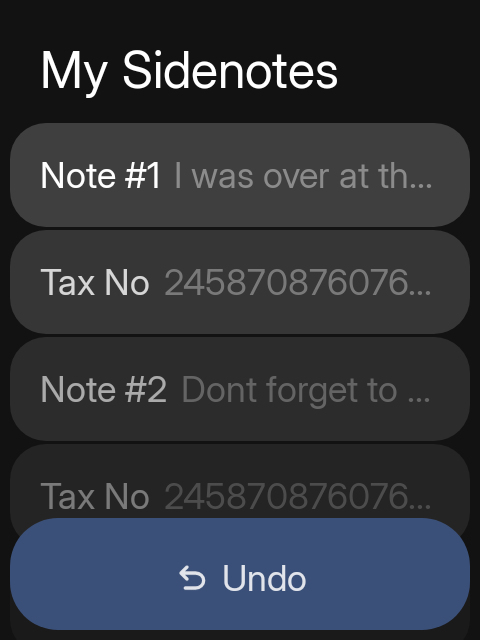
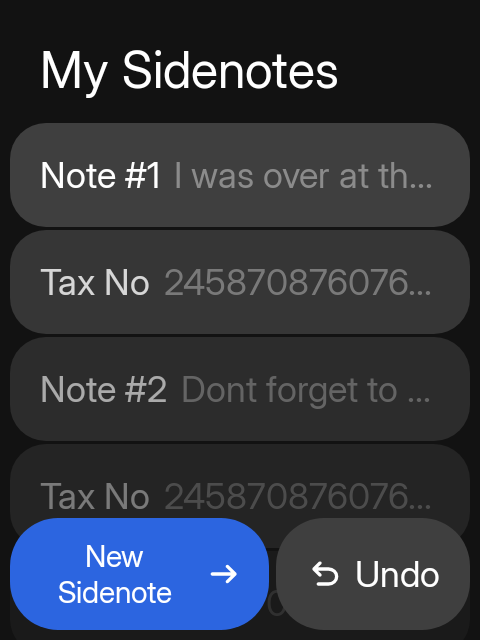
Keep Undo to the right of the action, never in place of it
Undo is an offer, not a mode. Two slots: the left one keeps what the screen is
for, the right one is empty until something can be undone and then shows Undo.
Root lists read New | Undo, browse lists Back | Undo, and where a screen has
both a way back and a primary the primary holds the left slot while the exit
button steps aside for the five seconds (system back still leaves, and the exit
returns with the primary).

Fixes the previous mistake where a single-slot bar became Undo alone, and the
one where an unchanged bar lost its first action: undoBar now only participates
while there is something to undo.

Changed region(s): [[0.0, 0.8125, 1.0, 1.0]]

diff --git a/app/src/main/java/hrln/interactive/sidekit/apps/webbrowser/WebBrowserScreen.kt b/app/src/main/java/hrln/interactive/sidekit/apps/webbrowser/WebBrowserScreen.kt
@@ -146,8 +146,8 @@ private fun StartTile(page: WebPage, onLink: () -> Unit, modifier: Modifier = Mo
 private fun withNotice(notice: String?, onDismiss: () -> Unit, actions: List<SideAction>): List<SideAction> =
     if (notice == null) actions else listOf(SideAction("notice", notice, tone = ActionTone.Muted, dense = true, motion = ActionMotion.Up, onClick = onDismiss))
 
-private fun withUndo(undo: BrowserUndo?, onUndo: () -> Unit, exit: SideAction?, primary: SideAction?): List<SideAction> =
-    undoBar(exit = exit, primary = primary, undo = undo?.let { SideAction.undo(contentDescription = "Undo", onClick = onUndo) })
+private fun withUndo(undo: BrowserUndo?, onUndo: () -> Unit, continueWith: SideAction): List<SideAction> =
+    undoBar(continueWith = continueWith, undo = undo?.let { SideAction.undo(contentDescription = "Undo", onClick = onUndo) })
 
 /**
  * The browser. One route; the page, tab list, bookmarks and history are modes of it so the live
@@ -415,12 +415,12 @@ private fun TabsScreen(
     onDismissNotice: () -> Unit,
 ) {
     BackHandler(onBack = onBack)
-    val main = withUndo(
-        undo,
-        onUndo,
-        exit = SideAction.back("back", "Page", onBack),
-        primary = SideAction("forward", "New tab", SidekitIcon.Add, iconAtEnd = true, motion = ActionMotion.Forward, onClick = onNew),
-    )
+    val newTab = SideAction("forward", "New tab", SidekitIcon.Add, iconAtEnd = true, motion = ActionMotion.Forward, onClick = onNew)
+    val main = if (undo != null) {
+        withUndo(undo, onUndo, continueWith = newTab)
+    } else {
+        listOf(SideAction.back("back", "Page", onBack), newTab)
+    }
     SidekitScaffold(title = if (data.tabs.size == 1) "1 tab" else "${data.tabs.size} tabs", actions = withNotice(notice, onDismissNotice, main)) { padding ->
         val listState = rememberLazyListState()
         val swipe = rememberSwipeRevealGroup()
@@ -470,7 +470,7 @@ private fun BookmarksScreen(
     onUndo: () -> Unit,
 ) {
     BackHandler(onBack = onBack)
-    SidekitScaffold(title = "Bookmarks", actions = withUndo(undo, onUndo, exit = SideAction.back("back", "Tabs", onBack), primary = null)) { padding ->
+    SidekitScaffold(title = "Bookmarks", actions = withUndo(undo, onUndo, continueWith = SideAction.back("back", "Tabs", onBack))) { padding ->
         val listState = rememberLazyListState()
         val swipe = rememberSwipeRevealGroup()
         SidekitList(padding, state = listState) {

diff --git a/app/src/test/java/hrln/interactive/sidekit/apps/UndoConventionTest.kt b/app/src/test/java/hrln/interactive/sidekit/apps/UndoConventionTest.kt
@@ -18,39 +18,28 @@ class UndoConventionTest {
     private fun action(key: String, label: String) = SideAction(key, label) {}
 
     @Test
-    fun `undo takes the right slot and leaves the exit alone`() {
-        val bar = undoBar(exit = action("back", "Back"), primary = action("new", "New"), undo = SideAction.undo {})
-        assertEquals(listOf("back", "undo"), bar.map { it.key })
+    fun `undo joins the primary on the right and adds nothing else`() {
+        val bar = undoBar(continueWith = action("new", "New"), undo = SideAction.undo {})
+        assertEquals(listOf("new", "undo"), bar.map { it.key })
     }
 
     @Test
-    fun `the primary returns when there is nothing to undo`() {
-        val bar = undoBar(exit = action("back", "Back"), primary = action("new", "New"), undo = null)
-        assertEquals(listOf("back", "new"), bar.map { it.key })
+    fun `the primary keeps the left slot and the exit steps aside`() {
+        val bar = undoBar(continueWith = action("compose", "Compose"), undo = SideAction.undo {})
+        assertEquals(listOf("compose", "undo"), bar.map { it.key })
+        assertEquals(2, bar.size)
     }
 
     @Test
-    fun `a root list with no exit shows undo alone`() {
-        val bar = undoBar(primary = action("new", "New"), undo = SideAction.undo {})
-        assertEquals(listOf("undo"), bar.map { it.key })
+    fun `the bar is unchanged when there is nothing to undo`() {
+        val bar = undoBar(continueWith = action("back", "Back"), undo = null)
+        assertEquals(listOf("back"), bar.map { it.key })
     }
 
     @Test
-    fun `a draft keeps Send and adds undo third`() {
-        val bar = undoBar(
-            exit = action("back", "Back"),
-            primary = action("send", "Send"),
-            undo = SideAction.undo {},
-            keepPrimary = true,
-        )
-        assertEquals(listOf("back", "send", "undo"), bar.map { it.key })
-    }
-
-    @Test
-    fun `undo is muted and rises in place`() {
-        val undo = SideAction.undo(contentDescription = "Undo delete Barclays") {}
-        assertEquals(ActionTone.Muted, undo.tone)
-        assertEquals("Undo delete Barclays", undo.contentDescription)
+    fun `a draft never grows an undo button`() {
+        val bar = undoBar(continueWith = action("send", "Send"), undo = null)
+        assertEquals(listOf("send"), bar.map { it.key })
     }
 
     /**

diff --git a/app/src/main/java/hrln/interactive/sidekit/apps/sideticks/SideticksScreen.kt b/app/src/main/java/hrln/interactive/sidekit/apps/sideticks/SideticksScreen.kt
@@ -61,15 +61,17 @@ fun SideticksScreen(
         focusParking = screenFocus,
         title = "My Sideticks",
         actions = buildList {
-            addAll(
-                undoBar(
-                    exit = if (state.draft != null) SideAction.cancel("cancel", onClick = onCancel) else null,
-                    primary =
-                    if (state.draft != null) SideAction("main", "Confirm", SidekitIcon.Check, iconAtEnd = true, tone = ActionTone.Secondary, motion = ActionMotion.Up, onClick = onConfirmDraft)
-                    else SideAction("main", "New Sidetick", SidekitIcon.Add, iconAtEnd = true, motion = ActionMotion.Up, onClick = onNewTick),
-                    undo = if (state.draft == null && state.recentlyDeleted.isNotEmpty()) SideAction.undo(contentDescription = "Undo delete tick", onClick = onUndo) else null,
-                ),
-            )
+            if (state.draft != null) {
+                add(SideAction.cancel("cancel", onClick = onCancel))
+                add(SideAction("main", "Confirm", SidekitIcon.Check, iconAtEnd = true, tone = ActionTone.Secondary, motion = ActionMotion.Up, onClick = onConfirmDraft))
+            } else {
+                addAll(
+                    undoBar(
+                        continueWith = SideAction("main", "New Sidetick", SidekitIcon.Add, iconAtEnd = true, motion = ActionMotion.Up, onClick = onNewTick),
+                        undo = if (state.recentlyDeleted.isNotEmpty()) SideAction.undo(contentDescription = "Undo delete tick", onClick = onUndo) else null,
+                    ),
+                )
+            }
             if (needsNotifications && state.dueText != null) add(SideAction("allow", "Allow", onClick = onNotifications))
         },
         options = if (state.draft != null) listOf(SideAction("due", if (state.dueText == null) "Due time" else "No due time") { onDue(if (state.dueText == null) "" else null) })

diff --git a/sidekit/src/main/java/hrln/interactive/sidekit/design/action/UndoBar.kt b/sidekit/src/main/java/hrln/interactive/sidekit/design/action/UndoBar.kt
@@ -3,22 +3,14 @@ package hrln.interactive.sidekit.design.action
 /**
  * The bar while a delete can still be taken back.
  *
- * The bar keeps its two slots and never grows or hides the exit: the left slot is always the way
- * out, and for a few seconds the right slot promises [undo] instead of [primary] — the promise on
- * the table right now is "put it back". The primary action returns when the undo window closes.
+ * Undo is an offer, not a mode, so it never removes the thing the screen is for: the bar keeps two
+ * slots, the left one holds the continuation ([continueWith]) and the right one — which is empty
+ * until something can be undone — shows [undo] for as long as the window lasts. The undo button is
+ * only ever added, never substituted, and always lands on the same side.
  *
- * Pass [keepPrimary] where the primary is holding typed work (a draft's Send), so the undo becomes
- * a third button instead of stranding the text. Pass [trailing] for fixed companions (a locate or
- * permission action) that stay put either way.
+ * When a screen has both a way back and a primary action the primary wins the left slot, so the
+ * exit button steps aside for the window; the system back still leaves, and the exit returns with
+ * the primary.
  */
-fun undoBar(
-    exit: SideAction? = null,
-    primary: SideAction? = null,
-    undo: SideAction? = null,
-    keepPrimary: Boolean = false,
-    trailing: List<SideAction> = emptyList(),
-): List<SideAction> = when {
-    undo == null -> listOfNotNull(exit, primary) + trailing
-    keepPrimary -> listOfNotNull(exit, primary, undo) + trailing
-    else -> listOfNotNull(exit, undo) + trailing
-}
+fun undoBar(continueWith: SideAction, undo: SideAction? = null): List<SideAction> =
+    if (undo == null) listOf(continueWith) else listOf(continueWith, undo)

diff --git a/app/src/main/java/hrln/interactive/sidekit/apps/sideweather/SideweatherGraph.kt b/app/src/main/java/hrln/interactive/sidekit/apps/sideweather/SideweatherGraph.kt
@@ -78,12 +78,9 @@ fun NavGraphBuilder.sideweatherGraph(nav: NavHostController) {
                         val locate = locationAction(vm::selectCurrentLocation) { message = it }
                         val list = rememberLazyListState()
                         val group = rememberSwipeRevealGroup()
-                        SidekitScaffold("Locations", actions = undoBar(
-                            exit = SideAction.back("back", "Back", back),
-                            primary = SideAction("add", "Add") { nav.navigate("$root/search") },
-                            undo = deleted?.let { p -> SideAction.undo(contentDescription = "Undo delete ${p.name}") { vm.repository.select(p); deleted = null } },
-                            trailing = listOf(locate),
-                        )) { padding ->
+                        val add = SideAction("add", "Add") { nav.navigate("$root/search") }
+                        val undo = deleted?.let { p -> SideAction.undo(contentDescription = "Undo delete ${p.name}") { vm.repository.select(p); deleted = null } }
+                        SidekitScaffold("Locations", actions = if (undo == null) listOf(SideAction.back("back", "Back", back), add, locate) else undoBar(add, undo)) { padding ->
                             SidekitList(padding, state = list) {
                                 item { OutdoorInfo(error ?: message, modifier = Modifier.listFade(list, 0)) }
                                 val places = settings?.places.orEmpty()

diff --git a/app/src/main/java/hrln/interactive/sidekit/apps/tripplanning/TripLive.kt b/app/src/main/java/hrln/interactive/sidekit/apps/tripplanning/TripLive.kt
@@ -131,7 +131,7 @@ fun NavGraphBuilder.liveTripsGraph(nav: NavHostController, transit: NswTransit =
                     // it must not evict Save from the editor if the user navigates during the window.
                     val undoAction = undo?.takeIf { page == "places" || page == "saved" }
                         ?.let { restore -> SideAction.undo { restore(); undo = null } }
-                    undoBar(exit = actions.firstOrNull(), primary = actions.getOrNull(1), undo = undoAction)
+                    if (undoAction == null) actions else undoBar(continueWith = actions.last(), undo = undoAction)
                 }
                 val options = if (page == "places") listOf(SideAction("useAs", if (useAsStart) "Use as destination" else "Use as start") { useAsStart = !useAsStart }) else if (page == "detail") listOf(SideAction("edit", "Edit") { vm.edit(vm.selected); nav.navigate("$root/plan") }) else if (page == "plan") listOf(
                     SideAction("fromSearch", "Find From stop") { vm.search(true) { nav.navigate("$root/stops") } },

diff --git a/app/src/main/java/hrln/interactive/sidekit/apps/banking/BankingScreen.kt b/app/src/main/java/hrln/interactive/sidekit/apps/banking/BankingScreen.kt
@@ -72,14 +72,14 @@ const val TRACKER_NOTICE =
 private const val TRACKER_CAPTION = "Tracked here · not bank-linked"
 
 /**
- * Undo split shared by every Banking list: the exit stays on the left, and the right slot offers
- * "Undo delete Barclays" until the window closes. The main action returns after it.
+ * Undo split shared by every Banking list: the main action holds the left slot and the right slot
+ * offers "Undo delete Barclays" until the window closes. Nothing else is taken away.
  */
 private fun withUndo(undo: BankingUndo?, onUndo: () -> Unit, main: List<SideAction>): List<SideAction> =
-    undoBar(
-        exit = main.firstOrNull(),
-        primary = main.getOrNull(1),
-        undo = undo?.let { u -> SideAction.undo(contentDescription = u.label, onClick = onUndo) },
+    if (undo == null) main
+    else undoBar(
+        continueWith = main.last(),
+        undo = SideAction.undo(contentDescription = undo.label, onClick = onUndo),
     )
 
 /**

diff --git a/app/src/main/java/hrln/interactive/sidekit/apps/sidemessage/SidemessageScreens.kt b/app/src/main/java/hrln/interactive/sidekit/apps/sidemessage/SidemessageScreens.kt
@@ -195,11 +195,10 @@ fun ConversationScreen(
         // A draft already open keeps its Send action so typing isn't stranded.
         addAll(
             undoBar(
-                primary =
+                continueWith =
                 if (draft != null) SideAction("compose", "Send", SidekitIcon.ArrowUpward, iconAtEnd = true, tone = ActionTone.Secondary, motion = ActionMotion.Up, contentDescription = "Send message", onClick = onSend)
                 else SideAction("compose", "Text", SidekitIcon.ArrowUpward, iconAtEnd = true, motion = ActionMotion.Up, onClick = onStartTyping),
-                undo = if (state.canUndo) SideAction.undo(contentDescription = "Undo delete message", onClick = onUndoDelete) else null,
-                keepPrimary = draft != null,
+                undo = if (draft == null && state.canUndo) SideAction.undo(contentDescription = "Undo delete message", onClick = onUndoDelete) else null,
             ),
         )
     }

diff --git a/app/src/main/java/hrln/interactive/sidekit/apps/clock/ClockGraph.kt b/app/src/main/java/hrln/interactive/sidekit/apps/clock/ClockGraph.kt
@@ -125,10 +125,10 @@ internal fun ClockScreen(onEdit: (String) -> Unit, repository: ClockRepository? 
                 add(SideAction("reset", if (current.stopwatch.startedAt == null) "Reset" else "Lap") { if (current.stopwatch.startedAt == null) repo.resetStopwatch() else repo.lap() })
             }
         }
-        // As in Sideticks, Undo takes the bar's only slot while an alarm delete can be undone.
-        // The window belongs to the Alarms tab; it never blanks Timer or Stopwatch.
+        // As in Sideticks, Undo joins the bar while an alarm delete can be undone; "New alarm"
+        // keeps the left slot. The window belongs to the Alarms tab; Timer and Stopwatch never
+        // grow an undo button.
         if (tab == "Alarms" && deletedPending != null) {
-            clear()
             add(SideAction.undo(contentDescription = "Undo delete alarm", onClick = repo::undoDelete))
         }
     }

diff --git a/app/src/main/java/hrln/interactive/sidekit/apps/compass/CompassLive.kt b/app/src/main/java/hrln/interactive/sidekit/apps/compass/CompassLive.kt
@@ -77,7 +77,7 @@ fun CompassBookmarks(onBack: () -> Unit) {
     var deleted by remember { mutableStateOf<HeadingBookmark?>(null) }
     LaunchedEffect(deleted) { if (deleted != null) { delay(5_000); deleted = null } }
     SidekitScaffold("Saved headings", actions = undoBar(
-            exit = SideAction.back("back", "Back", onBack),
+            continueWith = SideAction.back("back", "Back", onBack),
             undo = deleted?.let { p -> SideAction.undo(contentDescription = "Undo delete heading") { store.edit { (it + p).sortedByDescending { b -> b.time } }; deleted = null } },
         )) { padding ->
         SidekitList(padding, state = list) {

diff --git a/app/src/main/java/hrln/interactive/sidekit/apps/mail/MailGraph.kt b/app/src/main/java/hrln/interactive/sidekit/apps/mail/MailGraph.kt
@@ -147,7 +147,7 @@ private fun mailActions(
     notice: String?, dismiss: () -> Unit, hasUndo: Boolean, undo: () -> Unit, first: SideAction, second: SideAction,
 ): List<SideAction> = when {
     notice != null -> listOf(SideAction("notice", notice, tone = ActionTone.Muted, dense = true, onClick = dismiss))
-    hasUndo -> undoBar(exit = first, primary = second, undo = SideAction.undo(contentDescription = "Undo delete message", onClick = undo))
+    hasUndo -> undoBar(continueWith = second, undo = SideAction.undo(contentDescription = "Undo delete message", onClick = undo))
     else -> listOf(first, second)
 }
 

diff --git a/app/src/main/java/hrln/interactive/sidekit/apps/sidenotes/SidenotesScreens.kt b/app/src/main/java/hrln/interactive/sidekit/apps/sidenotes/SidenotesScreens.kt
@@ -70,7 +70,7 @@ fun SidenotesListScreen(
     onUndoDelete: () -> Unit,
 ) {
     val actions = undoBar(
-        primary = SideAction.forward("new", "New Sidenote", onNewNote),
+        continueWith = SideAction.forward("new", "New Sidenote", onNewNote),
         undo = if (state.recentlyDeleted != null) SideAction.undo(contentDescription = "Undo delete note", onClick = onUndoDelete) else null,
     )
 
